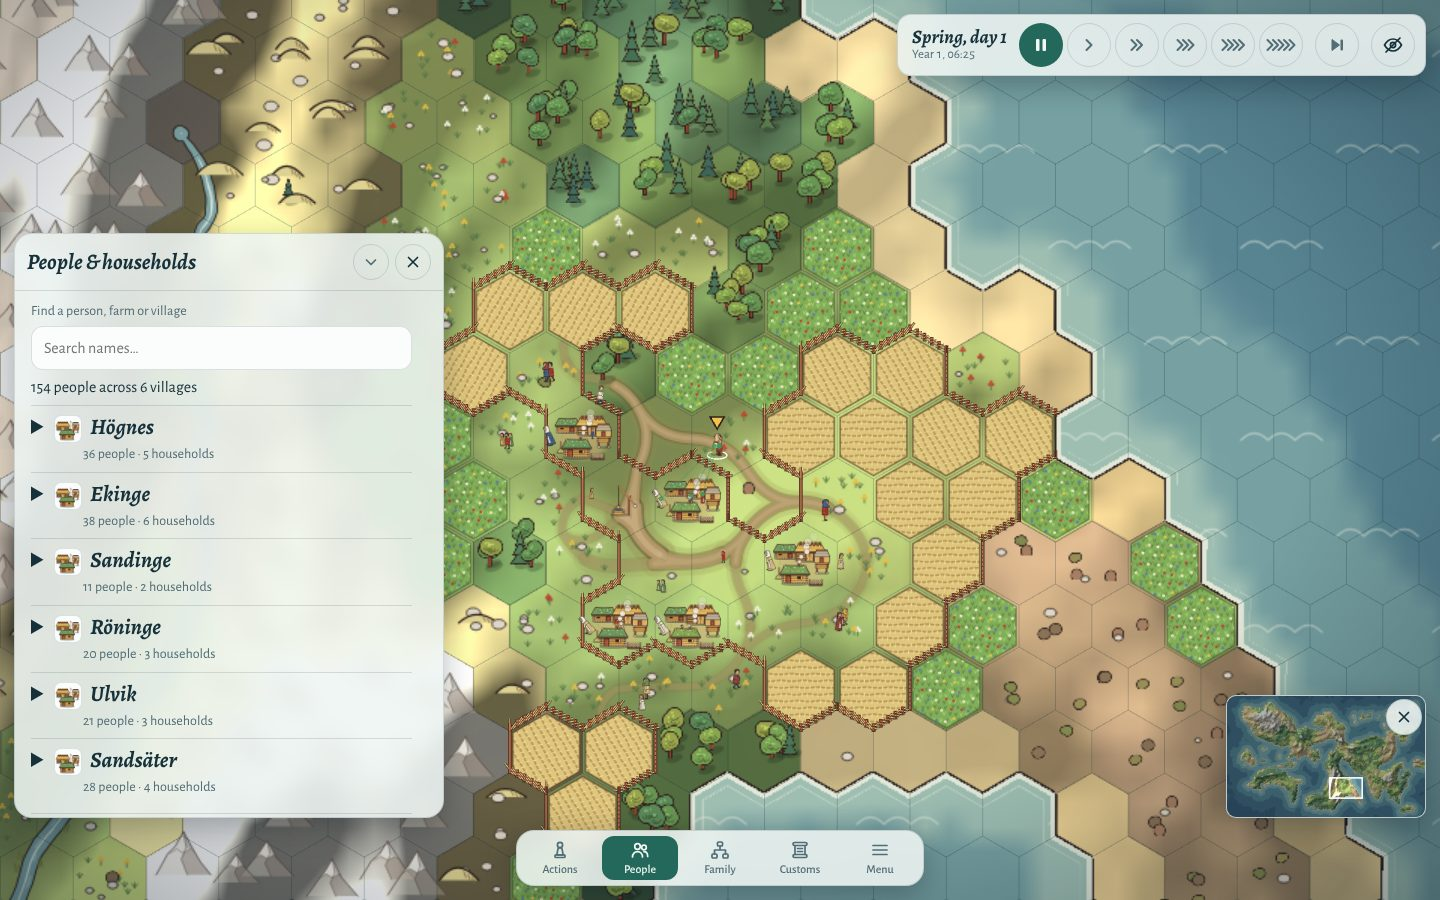
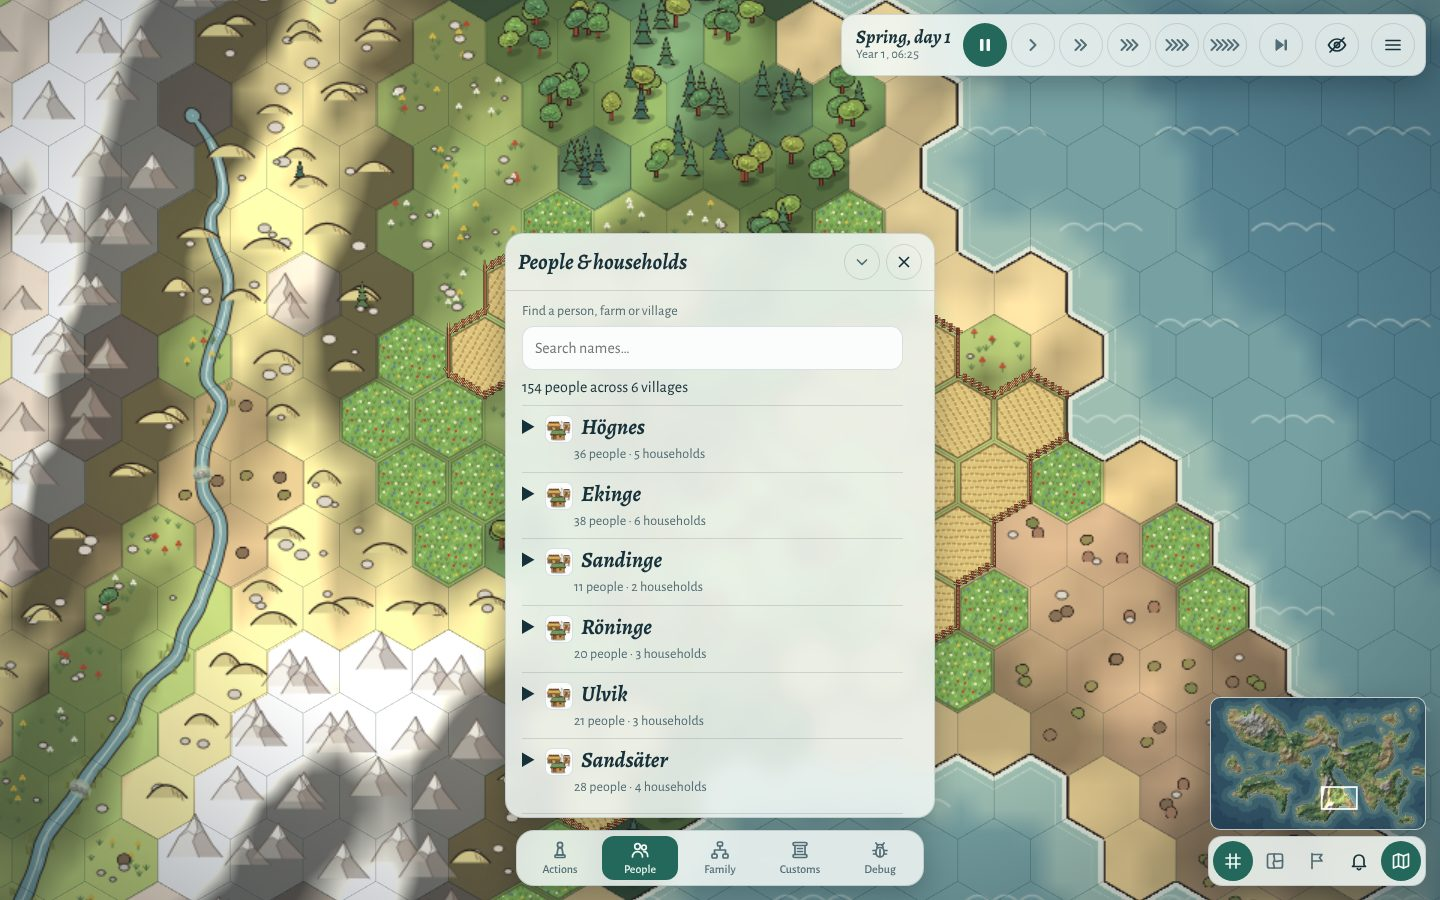
VB-324: the dock's panels rise centred over the dock; the notifications at the top centre on every screen
- People, Actions, Customs and Debug open centred over the dock on a wide screen, as they rise from it on a phone; the selection card
  keeps the bottom left.
- The notifications stand at the top centre, just under the top bar (its bottom edge measured, since a narrow screen's date can take two
  lines); the rules that moved them clear of the side panels and the play offer are gone.
- The desktop's top bar may be 700 px wide, so Skip and Main menu keep it on one row.
- tests/browser-mobile.js checks the panels rise from the dock and the notifications sit under the bar at each width; tests/browser.js folds
  the Actions panel, which now covers the view's middle on a wide screen too, before choosing a tile for Walk here.
- Screenshots of the final layout in docs/img/vb-324-after-*; the task notes the follow-camera trade-off.

Claude-Session: https://claude.ai/code/session_01UXXp2ZG5DNGF4P7VZa17MU

diff --git a/index.html b/index.html
@@ -250,7 +250,7 @@ input, select { font: inherit; color: var(--ink); }
 .menu-label { font-size: 12px; text-transform: uppercase; letter-spacing: .09em; color: var(--muted); margin: 14px 0 6px; }
 .background-run { margin: 8px 0 12px; min-height: 44px; font-size: 14px; }
 .background-run input, .dchk input { width: 20px; height: 20px; flex-shrink: 0; }
-.clock { max-width: 590px; }
+.clock { max-width: 700px; } /* one row with Skip and Main menu (VB-324) */
 .navigation { position: fixed; z-index: 7; left: 50%; transform: translateX(-50%); bottom: var(--dock-bottom); display: flex; gap: 4px;
   padding: 5px; border-radius: 18px; }
 /* The dock is icons, each with its name under it (VB-324). */
@@ -261,8 +261,9 @@ input, select { font: inherit; color: var(--ink); }
 .sheet { display: flex; flex-direction: column; padding: 0; overflow: hidden; border-radius: 18px; }
 .people-sheet, .drawer, .tile { position: fixed; z-index: 6; bottom: calc(var(--dock-bottom) + 68px); top: auto;
   max-height: min(65vh, calc(100dvh - 180px)); width: min(430px, calc(100vw - 28px)); }
-.people-sheet, .tile { left: max(14px, env(safe-area-inset-left, 0px)); }
-.drawer { left: auto; right: max(14px, env(safe-area-inset-right, 0px)); }
+/* The dock's panels rise from it, centred over it (VB-324); the selection card, opened from the map, keeps the bottom left. */
+.people-sheet, .drawer { left: max(14px, calc(50% - 215px)); right: auto; }
+.tile { left: max(14px, env(safe-area-inset-left, 0px)); }
 .sheet-head { display: flex; align-items: center; gap: 6px; padding: 10px 12px; border-bottom: 1px solid var(--edge); flex-shrink: 0; }
 .sheet-head h2, .sheet-head strong { flex: 1; min-width: 0; margin: 0; font: italic 700 22px/1.1 'Alegreya', Georgia, serif;
   overflow-wrap: anywhere; }
@@ -313,17 +314,11 @@ body:not(.minimap-open) #minimap, body:not(.minimap-open) .map-bar > :not(#minim
   max-height: min(60vh, calc(100dvh - 200px)); overflow: auto; padding: 0 14px 6px; border-radius: 14px; }
 .notice-pop .menu-label { margin: 12px 0 8px; }
 .lod { bottom: calc(var(--dock-bottom) + 60px); }
-/* Notifications (VB-098): toasts at the bottom centre, just above the dock, the newest lowest (Kim, 9 Nov; first built at the bottom left).
-   On a window too narrow to clear an open sheet they move to the middle of what is left free (between a left sheet and the minimap, or left
-   of the drawer). They hide the "painting detail" line while they are up. */
-.toasts { position: fixed; z-index: 7; left: 50%; transform: translateX(-50%); bottom: calc(var(--dock-bottom) + 66px);
+/* Notifications (VB-098): toasts at the top centre, just under the top bar, the newest lowest, on every screen (11 Nov, VB-324: the dock's
+   panels rise where they were; first at the bottom left, then from 9 Nov at the bottom centre, above the dock). The bar's bottom edge,
+   which a narrow screen's date on two lines moves, is measured by page/notices. */
+.toasts { position: fixed; z-index: 7; left: 50%; transform: translateX(-50%); top: calc(var(--bar-bottom, 76px) + 8px);
   width: min(380px, calc(100vw - 28px)); display: flex; flex-direction: column; gap: 6px; pointer-events: none; }
-body:has(.toast) .lod { visibility: hidden; }
-@media (min-width: 1025px) and (max-width: 1300px) {
-  body:has(.people-sheet:not([hidden])):not(:has(.drawer:not([hidden]))) .toasts,
-  body:has(.tile:not([hidden])):not(:has(.drawer:not([hidden]))) .toasts { left: calc(50% + 115px); width: min(380px, calc(100vw - 700px)); }
-  body:has(.drawer:not([hidden])):not(:has(.people-sheet:not([hidden]))):not(:has(.tile:not([hidden]))) .toasts { left: calc(50% - 222px); }
-}
 .toast { pointer-events: auto; border-radius: 12px; padding: 8px 12px; text-align: left; font-size: 14px; line-height: 1.35; color: var(--ink);
   animation: toast-in 0.2s ease-out; }
 @keyframes toast-in { from { opacity: 0; transform: translateY(6px); } }
@@ -337,7 +332,6 @@ body:has(.toast) .lod { visibility: hidden; }
   margin: 2px 0; padding: 4px 10px; font-size: 14px; text-align: left; }
 .succession li i { font-style: normal; font-size: 13px; color: var(--muted); }
 @media (pointer: coarse) { .succession li button { min-height: 44px; } }
-body:has(.play-offer:not([hidden])) .toasts { bottom: calc(var(--dock-bottom) + 130px); }
 .play { margin: 8px 0; }
 .play h3 { margin: 10px 0 4px; font-size: 11px; font-weight: 600; letter-spacing: 0.06em; text-transform: uppercase; color: var(--muted); }
 .play h4 { margin: 8px 0 2px; font-size: 13px; font-weight: 600; color: var(--ink); }
@@ -477,7 +471,7 @@ button.name { display: inline; min-height: 0; padding: 0; border: 0; border-radi
   .map-tools { right: max(8px, env(safe-area-inset-right, 0px)); bottom: calc(var(--dock-bottom) + 62px); }
   .lod { display: none; }
   .toasts { left: max(8px, env(safe-area-inset-left, 0px)); right: max(8px, env(safe-area-inset-right, 0px)); width: auto; transform: none;
-    top: calc(env(safe-area-inset-top, 0px) + 74px); bottom: auto; }
+    bottom: auto; }
   .tree { padding: env(safe-area-inset-top, 0px) env(safe-area-inset-right, 0px) env(safe-area-inset-bottom, 0px) env(safe-area-inset-left, 0px); }
   .tree-card { width: 100%; height: 100%; max-height: 100dvh; border-radius: 0; }
   .tree-head { padding: 10px 12px; gap: 6px; align-items: center; }
@@ -15578,7 +15572,7 @@ if (typeof module !== 'undefined') module.exports = Sim;
   });
 
   // ---- notifications ----
-  // A toast for each notable event the record gains: at the bottom centre, above the dock, for 6 s, at most 3 at once (a fourth replaces
+  // A toast for each notable event the record gains: at the top centre, under the top bar (VB-324), for 6 s, at most 3 at once (a fourth replaces
   // the oldest). Events of one kind in one village on one game day share a toast while it is up ("3 births in Ulsäter"), which is what
   // happens at high speed. Which kinds show is the page's choice, kept in localStorage and never in st.
   const TOAST_SECONDS = 6, TOAST_MAX = 3, NOTICE_KEY = 'vb.notices.off';
@@ -15599,6 +15593,10 @@ if (typeof module !== 'undefined') module.exports = Sim;
     if (e.target.checked) noticeOff.delete(k); else noticeOff.add(k);
     try { localStorage.setItem(NOTICE_KEY, JSON.stringify([...noticeOff])); } catch (err) { return; } // no storage: the choice lasts the visit
   });
+  // The toasts stand just under the top bar, however tall a narrow screen's date makes it (VB-324): its bottom edge, as a CSS length.
+  const barBottom = () => document.documentElement.style.setProperty('--bar-bottom', `${Math.round($('clock').getBoundingClientRect().bottom)}px`);
+  if (window.ResizeObserver) new ResizeObserver(barBottom).observe($('clock'));
+  window.addEventListener('resize', barBottom); barBottom();
   let noticeSt = null, noticeSeen = 0, noticeAbout = -1, toasts = [];
   function dropToast(t) { toasts = toasts.filter((x) => x !== t); t.el.remove(); }
   // What a click on a toast selects, as a link in a card does (page/cards): the newborn or the groom, the farm where it happened, else the village.
@@ -15674,7 +15672,7 @@ if (typeof module !== 'undefined') module.exports = Sim;
   // A page save is {build, savedAt, label, save: Sim.save(st)}, as gzipped JSON. An archipelago (scenario, seed and size) has four slots:
   // `auto`, written when the page is hidden, and 1 to 3, written by hand; a slot is overwritten in place and no older save is kept.
   // The database keeps each slot's line (`saves`) apart from its bytes (`blobs`), so a list never reads the bytes.
-  const BUILD = 'd9be56e38b', SAVE_SLOTS = ['auto', '1', '2', '3'];
+  const BUILD = '775e74bf8a', SAVE_SLOTS = ['auto', '1', '2', '3'];
   const archOf = (s) => `${s.scenario}-${s.w.seed}-${s.w.COLS}x${s.w.ROWS}`;
   const sizeKey = (cols, rows) => Object.keys(SIZES).find((k) => SIZES[k][0] === cols && SIZES[k][1] === rows);
   const SIZE_NAMES = { t: 'tiny', s: 'small', m: 'medium', l: 'large' };

diff --git a/src/head.html b/src/head.html
@@ -250,7 +250,7 @@ input, select { font: inherit; color: var(--ink); }
 .menu-label { font-size: 12px; text-transform: uppercase; letter-spacing: .09em; color: var(--muted); margin: 14px 0 6px; }
 .background-run { margin: 8px 0 12px; min-height: 44px; font-size: 14px; }
 .background-run input, .dchk input { width: 20px; height: 20px; flex-shrink: 0; }
-.clock { max-width: 590px; }
+.clock { max-width: 700px; } /* one row with Skip and Main menu (VB-324) */
 .navigation { position: fixed; z-index: 7; left: 50%; transform: translateX(-50%); bottom: var(--dock-bottom); display: flex; gap: 4px;
   padding: 5px; border-radius: 18px; }
 /* The dock is icons, each with its name under it (VB-324). */
@@ -261,8 +261,9 @@ input, select { font: inherit; color: var(--ink); }
 .sheet { display: flex; flex-direction: column; padding: 0; overflow: hidden; border-radius: 18px; }
 .people-sheet, .drawer, .tile { position: fixed; z-index: 6; bottom: calc(var(--dock-bottom) + 68px); top: auto;
   max-height: min(65vh, calc(100dvh - 180px)); width: min(430px, calc(100vw - 28px)); }
-.people-sheet, .tile { left: max(14px, env(safe-area-inset-left, 0px)); }
-.drawer { left: auto; right: max(14px, env(safe-area-inset-right, 0px)); }
+/* The dock's panels rise from it, centred over it (VB-324); the selection card, opened from the map, keeps the bottom left. */
+.people-sheet, .drawer { left: max(14px, calc(50% - 215px)); right: auto; }
+.tile { left: max(14px, env(safe-area-inset-left, 0px)); }
 .sheet-head { display: flex; align-items: center; gap: 6px; padding: 10px 12px; border-bottom: 1px solid var(--edge); flex-shrink: 0; }
 .sheet-head h2, .sheet-head strong { flex: 1; min-width: 0; margin: 0; font: italic 700 22px/1.1 'Alegreya', Georgia, serif;
   overflow-wrap: anywhere; }
@@ -313,17 +314,11 @@ body:not(.minimap-open) #minimap, body:not(.minimap-open) .map-bar > :not(#minim
   max-height: min(60vh, calc(100dvh - 200px)); overflow: auto; padding: 0 14px 6px; border-radius: 14px; }
 .notice-pop .menu-label { margin: 12px 0 8px; }
 .lod { bottom: calc(var(--dock-bottom) + 60px); }
-/* Notifications (VB-098): toasts at the bottom centre, just above the dock, the newest lowest (Kim, 9 Nov; first built at the bottom left).
-   On a window too narrow to clear an open sheet they move to the middle of what is left free (between a left sheet and the minimap, or left
-   of the drawer). They hide the "painting detail" line while they are up. */
-.toasts { position: fixed; z-index: 7; left: 50%; transform: translateX(-50%); bottom: calc(var(--dock-bottom) + 66px);
+/* Notifications (VB-098): toasts at the top centre, just under the top bar, the newest lowest, on every screen (11 Nov, VB-324: the dock's
+   panels rise where they were; first at the bottom left, then from 9 Nov at the bottom centre, above the dock). The bar's bottom edge,
+   which a narrow screen's date on two lines moves, is measured by page/notices. */
+.toasts { position: fixed; z-index: 7; left: 50%; transform: translateX(-50%); top: calc(var(--bar-bottom, 76px) + 8px);
   width: min(380px, calc(100vw - 28px)); display: flex; flex-direction: column; gap: 6px; pointer-events: none; }
-body:has(.toast) .lod { visibility: hidden; }
-@media (min-width: 1025px) and (max-width: 1300px) {
-  body:has(.people-sheet:not([hidden])):not(:has(.drawer:not([hidden]))) .toasts,
-  body:has(.tile:not([hidden])):not(:has(.drawer:not([hidden]))) .toasts { left: calc(50% + 115px); width: min(380px, calc(100vw - 700px)); }
-  body:has(.drawer:not([hidden])):not(:has(.people-sheet:not([hidden]))):not(:has(.tile:not([hidden]))) .toasts { left: calc(50% - 222px); }
-}
 .toast { pointer-events: auto; border-radius: 12px; padding: 8px 12px; text-align: left; font-size: 14px; line-height: 1.35; color: var(--ink);
   animation: toast-in 0.2s ease-out; }
 @keyframes toast-in { from { opacity: 0; transform: translateY(6px); } }
@@ -337,7 +332,6 @@ body:has(.toast) .lod { visibility: hidden; }
   margin: 2px 0; padding: 4px 10px; font-size: 14px; text-align: left; }
 .succession li i { font-style: normal; font-size: 13px; color: var(--muted); }
 @media (pointer: coarse) { .succession li button { min-height: 44px; } }
-body:has(.play-offer:not([hidden])) .toasts { bottom: calc(var(--dock-bottom) + 130px); }
 .play { margin: 8px 0; }
 .play h3 { margin: 10px 0 4px; font-size: 11px; font-weight: 600; letter-spacing: 0.06em; text-transform: uppercase; color: var(--muted); }
 .play h4 { margin: 8px 0 2px; font-size: 13px; font-weight: 600; color: var(--ink); }
@@ -477,7 +471,7 @@ button.name { display: inline; min-height: 0; padding: 0; border: 0; border-radi
   .map-tools { right: max(8px, env(safe-area-inset-right, 0px)); bottom: calc(var(--dock-bottom) + 62px); }
   .lod { display: none; }
   .toasts { left: max(8px, env(safe-area-inset-left, 0px)); right: max(8px, env(safe-area-inset-right, 0px)); width: auto; transform: none;
-    top: calc(env(safe-area-inset-top, 0px) + 74px); bottom: auto; }
+    bottom: auto; }
   .tree { padding: env(safe-area-inset-top, 0px) env(safe-area-inset-right, 0px) env(safe-area-inset-bottom, 0px) env(safe-area-inset-left, 0px); }
   .tree-card { width: 100%; height: 100%; max-height: 100dvh; border-radius: 0; }
   .tree-head { padding: 10px 12px; gap: 6px; align-items: center; }

diff --git a/tests/browser-mobile.js b/tests/browser-mobile.js
@@ -178,8 +178,17 @@ assert(html.includes('window.__mobile'), 'page hook exists');
       assert(mb.x + mb.width >= ck.x + ck.width - 12 && mb.y < 80, `Main menu ends the top bar: ${JSON.stringify([mb, ck])}`);
       await fits('#mapTools');
       assert.strictEqual(await page.locator('.map-bar button:visible').last().getAttribute('id'), 'minimapBtn', 'the toggle ends the bar');
-      await page.click('#settlersBtn'); await fits('#peopleSheet'); await page.click('#peopleClose');
-      await page.click('#customsBtn'); await fits('#drawer'); await page.click('#drawerClose');
+      // VB-324: the dock's panels rise from it (centred over it on a wide screen); the notifications start just under the top bar
+      const rises = async (id) => {
+        const [p, d] = [await page.locator(id).boundingBox(), await page.locator('.navigation').boundingBox()];
+        assert(p.y + p.height <= d.y && (width <= 1024 || Math.abs(p.x + p.width / 2 - d.x - d.width / 2) <= 2),
+          `${id} rises from the dock at ${width}: ${JSON.stringify([p, d])}`);
+      };
+      await page.evaluate(() => new Promise((r) => requestAnimationFrame(() => r()))); // the bar is measured in the frame after a resize
+      const toastsTop = await page.evaluate(() => document.getElementById('toasts').getBoundingClientRect().top);
+      assert(toastsTop > ck.y + ck.height && toastsTop < ck.y + ck.height + 24, `the notifications start under the top bar: ${toastsTop}`);
+      await page.click('#settlersBtn'); await fits('#peopleSheet'); await rises('#peopleSheet'); await page.click('#peopleClose');
+      await page.click('#customsBtn'); await fits('#drawer'); await rises('#drawer'); await page.click('#drawerClose');
       await page.click('#treeBtn'); await fits('.tree-card'); await page.click('#treeClose');
     }
     await page.setViewportSize({ width: 390, height: 844 });

diff --git a/src/page/notices.js b/src/page/notices.js
@@ -1,6 +1,6 @@
 // @sys page/notices: toasts for notable events (VB-098), read from the record through Sim.notable, and the list that turns each kind on or off
   // ---- notifications ----
-  // A toast for each notable event the record gains: at the bottom centre, above the dock, for 6 s, at most 3 at once (a fourth replaces
+  // A toast for each notable event the record gains: at the top centre, under the top bar (VB-324), for 6 s, at most 3 at once (a fourth replaces
   // the oldest). Events of one kind in one village on one game day share a toast while it is up ("3 births in Ulsäter"), which is what
   // happens at high speed. Which kinds show is the page's choice, kept in localStorage and never in st.
   const TOAST_SECONDS = 6, TOAST_MAX = 3, NOTICE_KEY = 'vb.notices.off';
@@ -21,6 +21,10 @@
     if (e.target.checked) noticeOff.delete(k); else noticeOff.add(k);
     try { localStorage.setItem(NOTICE_KEY, JSON.stringify([...noticeOff])); } catch (err) { return; } // no storage: the choice lasts the visit
   });
+  // The toasts stand just under the top bar, however tall a narrow screen's date makes it (VB-324): its bottom edge, as a CSS length.
+  const barBottom = () => document.documentElement.style.setProperty('--bar-bottom', `${Math.round($('clock').getBoundingClientRect().bottom)}px`);
+  if (window.ResizeObserver) new ResizeObserver(barBottom).observe($('clock'));
+  window.addEventListener('resize', barBottom); barBottom();
   let noticeSt = null, noticeSeen = 0, noticeAbout = -1, toasts = [];
   function dropToast(t) { toasts = toasts.filter((x) => x !== t); t.el.remove(); }
   // What a click on a toast selects, as a link in a card does (page/cards): the newborn or the groom, the farm where it happened, else the village.

diff --git a/tests/browser.js b/tests/browser.js
@@ -137,11 +137,15 @@ const errors = [], fail = (m) => { errors.push(m); console.error('BROWSER FAIL:'
     return !!a.job && a.job.key === k && a.phase === 'work';
   }, target, { timeout: 120000 });
   await page.click('[data-speed="0"]');
-  // Walk here: with Follow on, the pawn stands at the middle of the view, on an open tile
+  // Walk here: with Follow on, the pawn stands at the middle of the view, on an open tile; the Actions panel, which rises from the dock over
+  // the view's middle (VB-324), is folded to choose it, and opened again
   await page.click('#playBox [data-play="follow"]'); await page.waitForTimeout(600);
-  await page.click('#playBox [data-play="walk"]');
+  await page.click('#playBox [data-play="walk"]'); await page.click('#actionSheet .sheet-expand');
   const box = await page.locator('canvas').first().boundingBox();
-  await page.mouse.click(box.x + box.width / 2, box.y + box.height / 2);
+  if (!(await page.evaluate((p) => document.elementFromPoint(p.x, p.y).tagName === 'CANVAS', { x: box.x + box.width / 2, y: box.y + box.height / 2 }))) {
+    fail('the folded Actions panel still covers the middle of the view');
+  }
+  await page.mouse.click(box.x + box.width / 2, box.y + box.height / 2); await page.click('#actionSheet .sheet-expand');
   await page.waitForTimeout(300);
   if (!(await page.evaluate(() => window.__play.st.player.queue.some((c) => c.verb === 'walkTo')))) fail('Walk here did not queue a walk');
   // the automatic behaviour off, the queue emptied: in working hours the pawn takes no work once its job in hand is done

diff --git a/backlog/VB-324.md b/backlog/VB-324.md
@@ -18,6 +18,12 @@ Acceptance criteria:
 - [x] Batch 2. The panel heads' Close is a cross and Collapse/Expand/Details a chevron, with their words kept as accessible names.
 - [x] Batch 3. On the desktop too the menu is the dock's: Menu joins the dock and opens the menu panel (layers, notifications, Main menu,
       Saves, Debug) above the dock at its right end; the top-left panel is gone.
+- [x] Batch 4 (supersedes batch 3's menu panel). Main menu is the top bar's last button, in the top-right corner, and opens the main menu
+      (put away with the bar while it shows); the menu panel is gone: Debug is in the dock; grid, regions, land, a bell for which
+      notifications show and the minimap's toggle (at the right end) are a bar under the minimap, and shut, the toggle alone stays; the
+      minimap's Close is gone; the game's name, map, controls and background run stand under the name on the main menu.
+- [x] Batch 4. The dock's panels rise centred over the dock on a wide screen (the selection card keeps the bottom left); the notifications
+      stand at the top centre, just under the top bar, on every screen.
 - [x] Screenshots before and after, phone (390×844, and landscape) and desktop (1440×900), in `docs/img/vb-324-*` (png for the phone, jpg for the desktop).
 - [x] `npm run verify` passes its hard checks; `tests/golden.json` unchanged (no simulation module changes).
 Notes:
@@ -77,4 +83,31 @@ Notes:
 - Screenshots taken again for the desktop (`docs/img/vb-324-after-desktop*.jpg`), and the menu open from the dock:
   `vb-324-after-desktop-dockmenu.jpg` and `vb-324-after-phone-dockmenu.png`.
 - Validation, batch 3: `npm test` 101 scripts pass; `npm run verify` 117 scripts pass (golden file unchanged), the same 11 simulation
+  cost targets out, none moved.
+- Batch 4, the menu panel taken apart (11 Nov; answers: Main menu at the top right, hidden while the main menu shows, since it has Back to
+  game; Saves stay on the main menu; Debug to the dock; the seed line and the map's settings under the title on the main menu; the
+  notification settings a button under the minimap for now; the dock's panels centred over the dock; the notifications top centre, as on a
+  phone). `#menuBtn` is the top bar's last button and opens the main menu (`showLanding`; it takes the old Main menu button's `disabled`
+  while a world is built). `#gameInfo` on the main menu holds `#name`, `#meta` (now the scenario, the map's size, seed, tiles and regions),
+  `#hint` (with Esc) and `#backgroundRun`; it stands at the top left, or above the card under 761 px. With a game open the main menu's Load
+  archipelago reads Saves, and so does the overlay, which saves the open game there. `#mapTools` (in `.hud.bottom`): the minimap over
+  `.map-bar` (grid, regions, land, `#noticeBtn` and `#minimapBtn`), 216 px wide; `body:not(.minimap-open)` puts away the minimap and every
+  button but the toggle; the bell's `#noticePop` (the kinds' checkboxes of `page/notices`) opens over the minimap and shuts on a press
+  elsewhere or Esc. `.people-sheet` and `.drawer` sit at `left: max(14px, 50% - 215px)`. The toasts' top is `--bar-bottom` + 8 px,
+  measured from the top bar by `page/notices` (a ResizeObserver), since a narrow screen's date on two lines makes the bar taller.
+  The desktop's top bar may be 700 px wide, so that Skip and Main menu keep it on one row.
+- What fell: the menu panel (`#worldMenu`, its head and Close, `placeMenu` and `--dock-right`), the old Main menu, Saves and minimap Close
+  buttons, the in-game opening of Saves, the minimap's inline visibility, the toasts' rules for keeping clear of the side panels between
+  1025 and 1300 px and of the play offer, and `.lod`'s hiding under the toasts.
+- Found and left: the dock's panels now cover the middle of a wide view, as they always did on a phone, where Follow keeps the played
+  pawn; Walk here then wants the Actions panel folded first. Moving Follow's centre above an open panel was tried and dropped: near the
+  map's edge the camera is clamped, so the pawn can still be under the panel. `tests/browser.js` folds the panel to choose the tile.
+- Tests: `tests/browser-mobile.js` checks the bar shut and open, the toggle at its end, the bell's list and Esc (which shuts it without
+  opening the main menu), Main menu at the top bar's end, the dock's panels rising from the dock (centred on a wide screen) and the
+  notifications just under the top bar at each width; `tests/browser-saves.js` saves from the main menu (titled Saves with a game open);
+  `tests/browser-speed.js` sets the background run on the main menu; `tests/browser.js` and `tests/smoke.js` use Debug in the dock and
+  `#menuBtn`.
+- Screenshots taken again for the final layout (`docs/img/vb-324-after-*`); the menu panel's (`*-dockmenu`) are gone, and
+  `vb-324-after-phone-maptools.png` and `vb-324-after-desktop-maptools.jpg` show the bar with the bell's list open.
+- Validation, batch 4: `npm test` 101 scripts pass; `npm run verify` 117 scripts pass (golden file unchanged), the same 11 simulation
   cost targets out, none moved.
